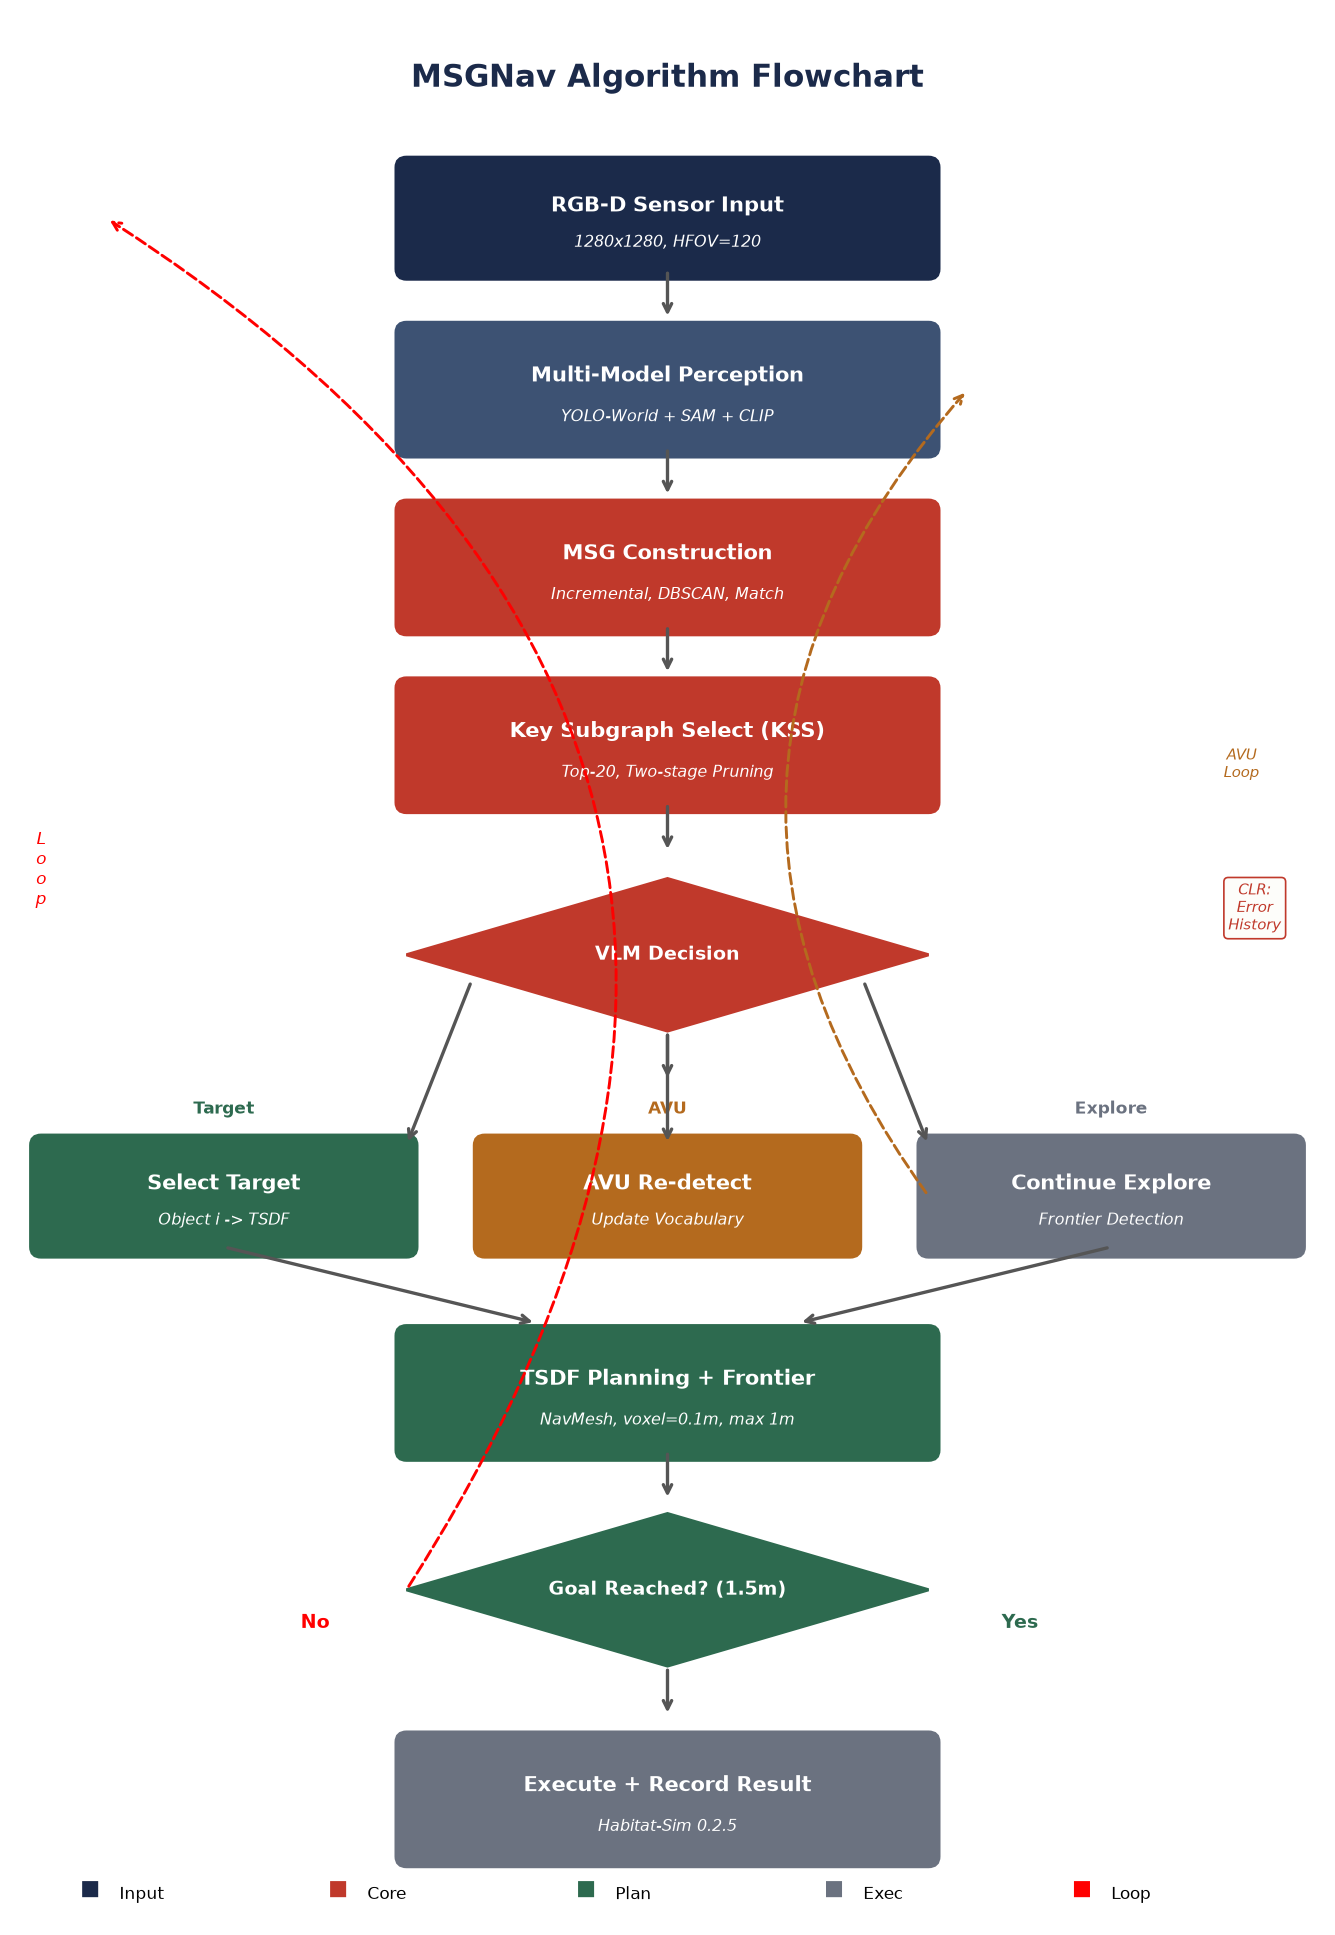
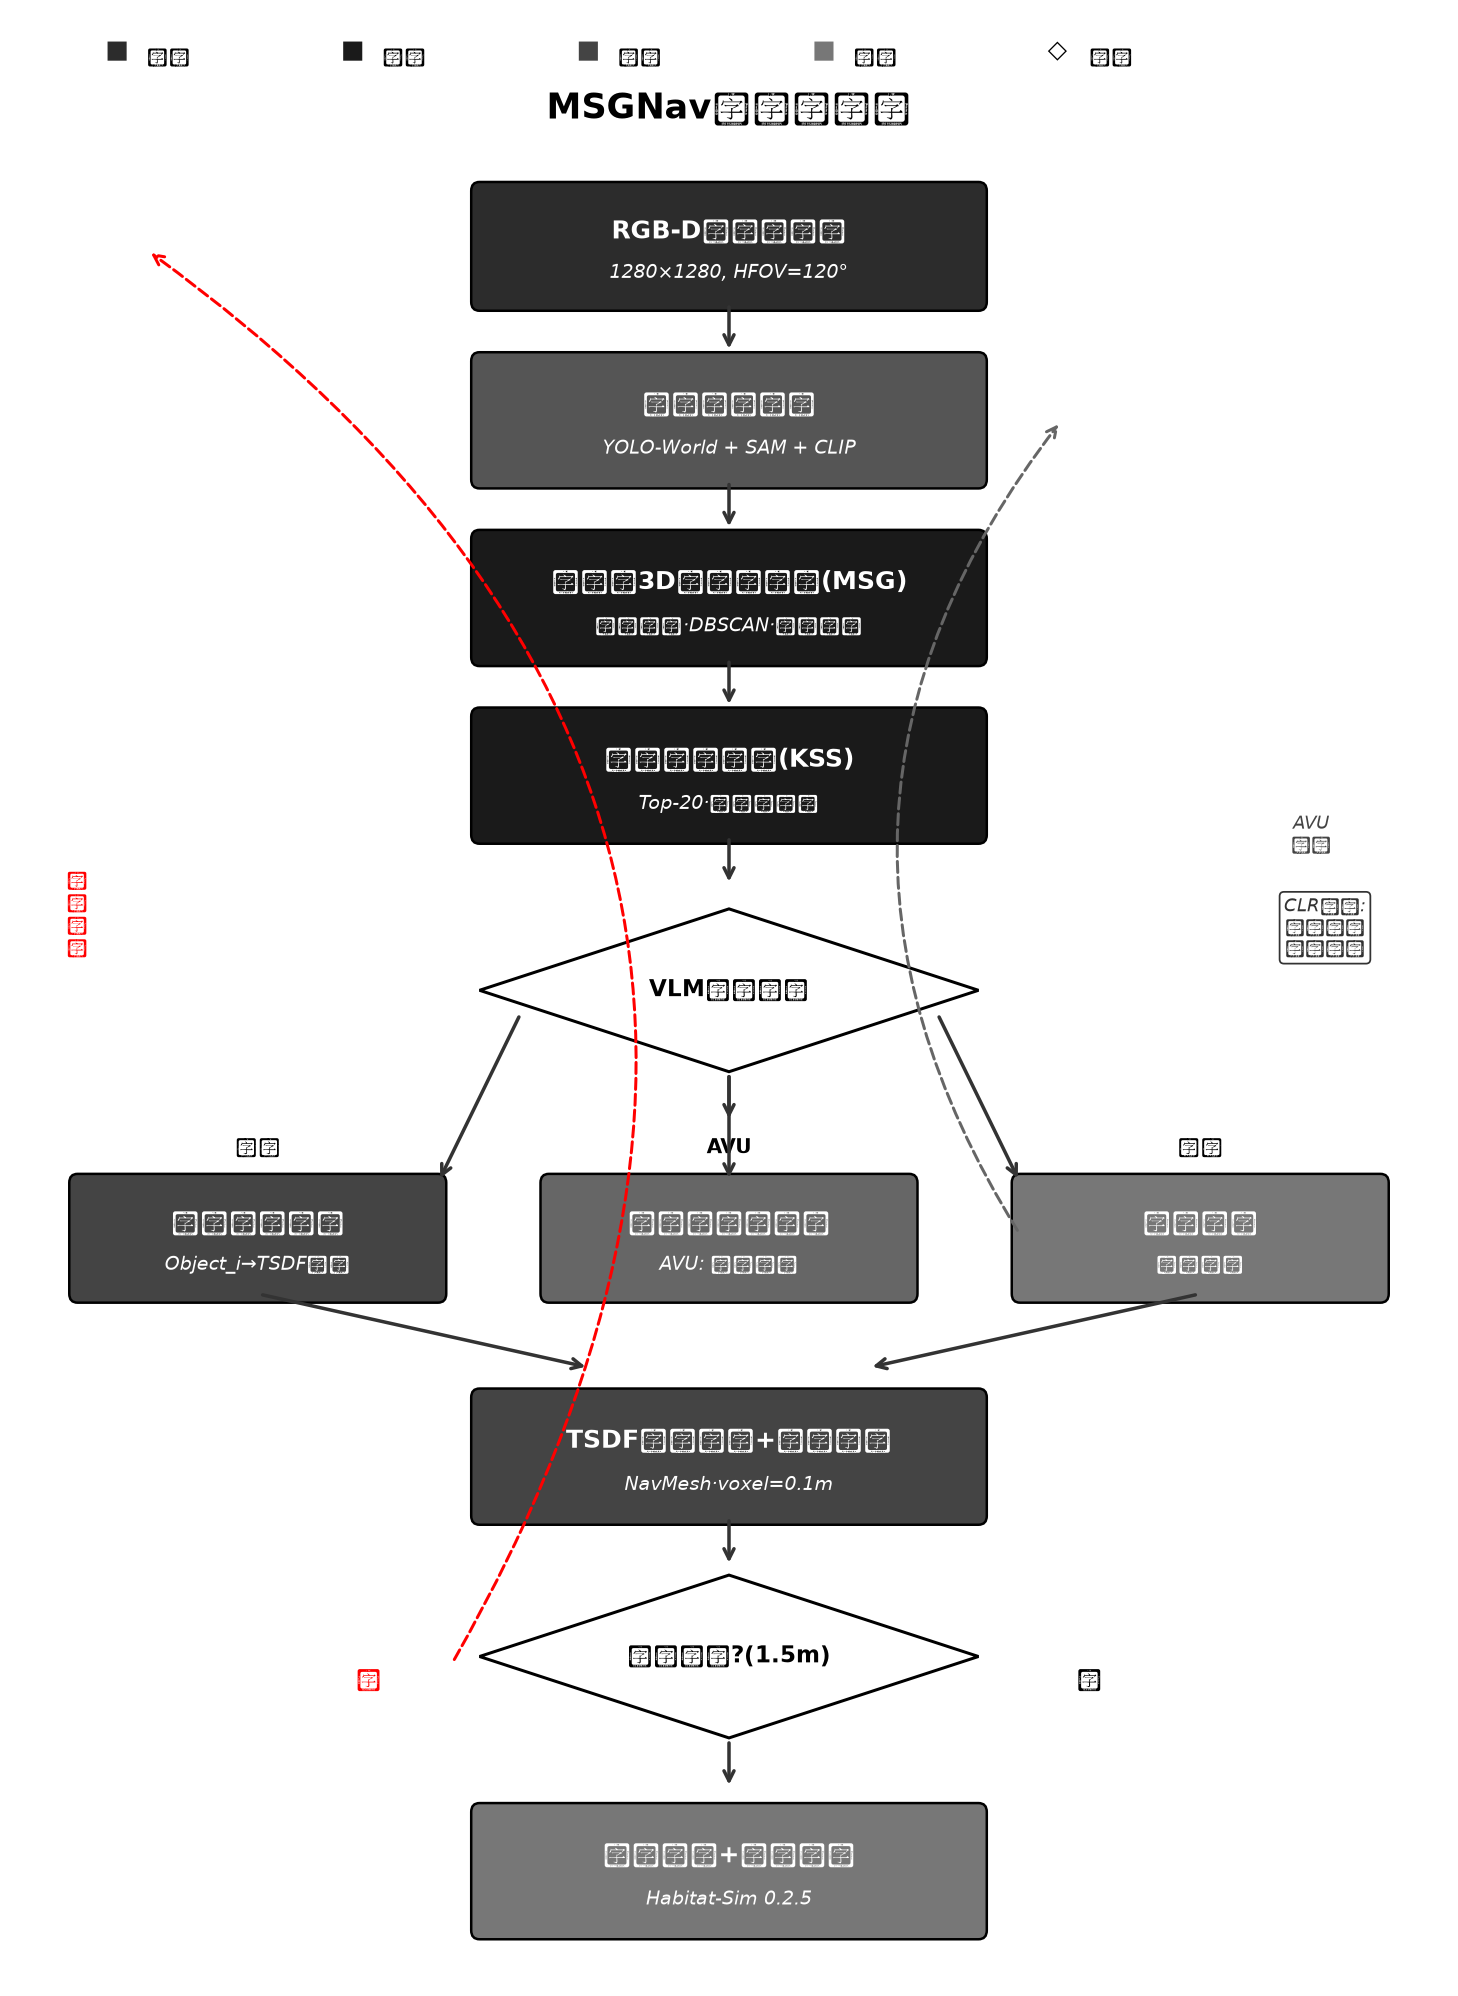
feat: 项目汇报PPT大纲

diff --git a/gen_flowchart.py b/gen_flowchart.py
@@ -1,113 +1,130 @@
 #!/usr/bin/env python3
-"""生成算法流程图 (英文版避免字体问题)"""
+"""生成中文算法流程图"""
 import matplotlib
 matplotlib.use('Agg')
 import matplotlib.pyplot as plt
 from matplotlib.patches import FancyBboxPatch, Polygon
-import os
+import matplotlib
 
-fig, ax = plt.subplots(1, 1, figsize=(9, 13))
+plt.rcParams['font.sans-serif'] = ['WenQuanYi Micro Hei', 'WenQuanYi Zen Hei', 'SimHei', 'DejaVu Sans']
+plt.rcParams['axes.unicode_minus'] = False
+
+fig, ax = plt.subplots(1, 1, figsize=(8, 11))
 ax.set_xlim(0, 10)
-ax.set_ylim(0, 15)
+ax.set_ylim(0, 13)
 ax.axis('off')
 
-C_INPUT = '#1B2A4A'
-C_PERCEP = '#3D5273'
-C_CORE = '#C0392B'
-C_PLAN = '#2D6A4F'
-C_ACT = '#6B7280'
-C_AVU = '#B46A1E'
+# 配色（黑白灰学术风）
+C_INPUT = '#2C2C2C'
+C_PERCEP = '#555555'
+C_CORE = '#1A1A1A'
+C_PLAN = '#444444'
+C_ACT = '#777777'
+C_AVU = '#666666'
 
-def draw_box(ax, x, y, w, h, text, subtext, color):
-    box = FancyBboxPatch((x, y), w, h, boxstyle="round,pad=0.08",
-                         facecolor=color, edgecolor=color, linewidth=1.5)
+def draw_box(ax, x, y, w, h, text, subtext, color, fc_text='white'):
+    box = FancyBboxPatch((x, y), w, h, boxstyle="round,pad=0.06",
+                         facecolor=color, edgecolor='black', linewidth=1.0)
     ax.add_patch(box)
-    ax.text(x + w/2, y + h*0.62, text, ha='center', va='center',
-            fontsize=10, fontweight='bold', color='white')
+    ax.text(x + w/2, y + h*0.63, text, ha='center', va='center',
+            fontsize=10, fontweight='bold', color=fc_text)
     if subtext:
         ax.text(x + w/2, y + h*0.26, subtext, ha='center', va='center',
-                fontsize=7.5, color='white', style='italic')
+                fontsize=7.5, color=fc_text, style='italic')
 
-def draw_arrow(ax, x1, y1, x2, y2, color='#555', style='solid'):
+def draw_arrow(ax, x1, y1, x2, y2, color='#333', style='solid'):
     ax.annotate('', xy=(x2, y2), xytext=(x1, y1),
-                arrowprops=dict(arrowstyle='->', color=color, lw=1.6, linestyle=style))
+                arrowprops=dict(arrowstyle='->', color=color, lw=1.4, linestyle=style))
 
 def draw_decision(ax, x, y, w, h, text, color=C_CORE):
     diamond = Polygon([(x+w/2, y+h), (x+w, y+h/2), (x+w/2, y), (x, y+h/2)],
-                      facecolor=color, edgecolor=color, linewidth=1.5)
+                      facecolor='white', edgecolor='black', linewidth=1.2)
     ax.add_patch(diamond)
     ax.text(x+w/2, y+h/2, text, ha='center', va='center',
-            fontsize=9, fontweight='bold', color='white')
+            fontsize=9, fontweight='bold', color='black')
 
-ax.text(5, 14.5, 'MSGNav Algorithm Flowchart', ha='center', va='center',
-        fontsize=15, fontweight='bold', color='#1B2A4A')
+# 标题
+ax.text(5, 12.5, 'MSGNav算法流程图', ha='center', va='center',
+        fontsize=14, fontweight='bold', color='black')
 
-bw = 4.0; bx = 3.0
+bw = 3.6; bx = 3.2
 
-draw_box(ax, bx, 13.0, bw, 0.8, 'RGB-D Sensor Input', '1280x1280, HFOV=120', C_INPUT)
-draw_arrow(ax, 5, 13.0, 5, 12.6)
+# 1. 输入
+draw_box(ax, bx, 11.2, bw, 0.75, 'RGB-D传感器输入', '1280×1280, HFOV=120°', C_INPUT)
+draw_arrow(ax, 5, 11.2, 5, 10.85)
 
-draw_box(ax, bx, 11.6, bw, 0.9, 'Multi-Model Perception', 'YOLO-World + SAM + CLIP', C_PERCEP)
-draw_arrow(ax, 5, 11.6, 5, 11.2)
+# 2. 感知层
+draw_box(ax, bx, 10.0, bw, 0.8, '多模型感知层', 'YOLO-World + SAM + CLIP', C_PERCEP)
+draw_arrow(ax, 5, 10.0, 5, 9.65)
 
-draw_box(ax, bx, 10.2, bw, 0.9, 'MSG Construction', 'Incremental, DBSCAN, Match', C_CORE)
-draw_arrow(ax, 5, 10.2, 5, 9.8)
+# 3. 场景图构建
+draw_box(ax, bx, 8.8, bw, 0.8, '多模态3D场景图构建(MSG)', '增量构建·DBSCAN·跨帧匹配', C_CORE)
+draw_arrow(ax, 5, 8.8, 5, 8.45)
 
-draw_box(ax, bx, 8.8, bw, 0.9, 'Key Subgraph Select (KSS)', 'Top-20, Two-stage Pruning', C_CORE)
-draw_arrow(ax, 5, 8.8, 5, 8.4)
+# 4. KSS
+draw_box(ax, bx, 7.6, bw, 0.8, '关键子图选择(KSS)', 'Top-20·两阶段剪枝', C_CORE)
+draw_arrow(ax, 5, 7.6, 5, 7.25)
 
-draw_decision(ax, bx, 7.0, bw, 1.2, 'VLM Decision')
-draw_arrow(ax, 5, 7.0, 5, 6.6)
+# 5. VLM决策（菱形）
+draw_decision(ax, bx, 6.0, bw, 1.1, 'VLM导航决策')
+draw_arrow(ax, 5, 6.0, 5, 5.65)
 
 # 三分支
-draw_box(ax, 0.2, 5.3, 2.8, 0.8, 'Select Target', 'Object i -> TSDF', C_PLAN)
-ax.text(1.6, 6.35, 'Target', ha='center', fontsize=8, color=C_PLAN, fontweight='bold')
-draw_arrow(ax, 3.5, 7.4, 3.0, 6.1)
+draw_box(ax, 0.3, 4.5, 2.6, 0.75, '选择目标物体', 'Object_i→TSDF规划', C_PLAN)
+ax.text(1.6, 5.45, '目标', ha='center', fontsize=8, color='black', fontweight='bold')
+draw_arrow(ax, 3.5, 6.4, 2.9, 5.25)
 
-draw_box(ax, 3.6, 5.3, 2.8, 0.8, 'AVU Re-detect', 'Update Vocabulary', C_AVU)
-ax.text(5.0, 6.35, 'AVU', ha='center', fontsize=8, color=C_AVU, fontweight='bold')
-draw_arrow(ax, 5, 7.0, 5, 6.1)
+draw_box(ax, 3.7, 4.5, 2.6, 0.75, '自适应词汇更新', 'AVU: 重新检测', C_AVU)
+ax.text(5.0, 5.45, 'AVU', ha='center', fontsize=8, color='black', fontweight='bold')
+draw_arrow(ax, 5, 6.0, 5, 5.25)
 
-draw_box(ax, 7.0, 5.3, 2.8, 0.8, 'Continue Explore', 'Frontier Detection', C_ACT)
-ax.text(8.4, 6.35, 'Explore', ha='center', fontsize=8, color=C_ACT, fontweight='bold')
-draw_arrow(ax, 6.5, 7.4, 7.0, 6.1)
+draw_box(ax, 7.1, 4.5, 2.6, 0.75, '继续探索', '前沿检测', C_ACT)
+ax.text(8.4, 5.45, '探索', ha='center', fontsize=8, color='black', fontweight='bold')
+draw_arrow(ax, 6.5, 6.4, 7.1, 5.25)
 
-# AVU 回流
-ax.annotate('', xy=(7.3, 12.05), xytext=(7.0, 5.7),
-            arrowprops=dict(arrowstyle='->', color=C_AVU, lw=1.4,
-                           connectionstyle='arc3,rad=-0.4', linestyle='dashed'))
-ax.text(9.4, 9.0, 'AVU\nLoop', ha='center', fontsize=7, color=C_AVU, style='italic')
+# AVU回流到感知层
+ax.annotate('', xy=(7.4, 10.4), xytext=(7.1, 4.9),
+            arrowprops=dict(arrowstyle='->', color='#666', lw=1.2,
+                           connectionstyle='arc3,rad=-0.35', linestyle='dashed'))
+ax.text(9.2, 7.5, 'AVU\n回流', ha='center', fontsize=7, color='#444', style='italic')
 
-draw_arrow(ax, 1.6, 5.3, 4.0, 4.7)
-draw_arrow(ax, 8.4, 5.3, 6.0, 4.7)
-draw_box(ax, bx, 3.7, bw, 0.9, 'TSDF Planning + Frontier', 'NavMesh, voxel=0.1m, max 1m', C_PLAN)
-draw_arrow(ax, 5, 3.7, 5, 3.3)
+# 6. 路径规划
+draw_arrow(ax, 1.6, 4.5, 4.0, 4.0)
+draw_arrow(ax, 8.4, 4.5, 6.0, 4.0)
+draw_box(ax, bx, 3.0, bw, 0.8, 'TSDF路径规划+前沿探索', 'NavMesh·voxel=0.1m', C_PLAN)
+draw_arrow(ax, 5, 3.0, 5, 2.65)
 
-draw_decision(ax, bx, 2.0, bw, 1.2, 'Goal Reached? (1.5m)', C_PLAN)
-ax.text(2.3, 2.3, 'No', ha='center', fontsize=9, color='red', fontweight='bold')
-ax.text(7.7, 2.3, 'Yes', ha='center', fontsize=9, color=C_PLAN, fontweight='bold')
+# 7. 终点确认（菱形）
+draw_decision(ax, bx, 1.5, bw, 1.1, '到达目标?(1.5m)')
+ax.text(2.4, 1.85, '否', ha='center', fontsize=9, color='red', fontweight='bold')
+ax.text(7.6, 1.85, '是', ha='center', fontsize=9, color='black', fontweight='bold')
 
-ax.annotate('', xy=(0.7, 13.4), xytext=(3.0, 2.6),
-            arrowprops=dict(arrowstyle='->', color='red', lw=1.4,
-                           connectionstyle='arc3,rad=0.5', linestyle='dashed'))
-ax.text(0.2, 8.0, 'L\no\no\np', ha='center', fontsize=8, color='red', style='italic')
+# 否->循环回到输入
+ax.annotate('', xy=(0.8, 11.55), xytext=(3.0, 2.0),
+            arrowprops=dict(arrowstyle='->', color='red', lw=1.2,
+                           connectionstyle='arc3,rad=0.45', linestyle='dashed'))
+ax.text(0.3, 6.8, '循\n环\n决\n策', ha='center', fontsize=7.5, color='red', style='italic')
 
-draw_arrow(ax, 5, 2.0, 5, 1.6)
-draw_box(ax, bx, 0.5, bw, 0.9, 'Execute + Record Result', 'Habitat-Sim 0.2.5', C_ACT)
+# 是->执行
+draw_arrow(ax, 5, 1.5, 5, 1.15)
+draw_box(ax, bx, 0.2, bw, 0.8, '动作执行+记录结果', 'Habitat-Sim 0.2.5', C_ACT)
 
-# CLR 标注
-ax.text(9.5, 7.8, 'CLR:\nError\nHistory', ha='center', fontsize=7,
-        color=C_CORE, style='italic',
-        bbox=dict(boxstyle='round,pad=0.3', facecolor='#FDFDFA', edgecolor=C_CORE, linewidth=0.8))
+# CLR标注
+ax.text(9.3, 6.8, 'CLR闭环:\n历史错误\n注入提示', ha='center', fontsize=7,
+        color='#333', style='italic',
+        bbox=dict(boxstyle='round,pad=0.25', facecolor='white', edgecolor='#333', linewidth=0.7))
 
 # 图例
-ly = 0.05
-for i, (c, l) in enumerate([(C_INPUT,'Input'),(C_CORE,'Core'),(C_PLAN,'Plan'),(C_ACT,'Exec'),('red','Loop')]):
-    ax.text(0.5+i*1.9, ly+0.15, '\u25A0', fontsize=10, color=c)
-    ax.text(0.8+i*1.9, ly+0.15, l, fontsize=8, va='center')
+ly = 12.85
+items = [('■', C_INPUT, '输入'), ('■', C_CORE, '核心'), ('■', C_PLAN, '规划'), ('■', C_ACT, '执行'), ('◇', 'white', '判断')]
+xpos = 0.5
+for sym, c, l in items:
+    ax.text(xpos, ly, sym, fontsize=10, color=c if c != 'white' else 'black')
+    ax.text(xpos + 0.3, ly, l, fontsize=7.5, va='center')
+    xpos += 1.7
 
 plt.tight_layout()
 outpath = '/workspace/report_images/algorithm_flowchart.png'
-plt.savefig(outpath, dpi=150, bbox_inches='tight', facecolor='white')
+plt.savefig(outpath, dpi=180, bbox_inches='tight', facecolor='white', pad_inches=0.2)
 plt.close()
 print(f'流程图已生成: {outpath}')

diff --git a/generate_report.py b/generate_report.py
@@ -188,26 +188,22 @@ def add_table_caption(doc, caption_text):
 
 
 def add_table(doc, headers, rows, col_widths=None):
-    """黑白风格三线表，内容全居中"""
+    """白色背景三线表，内容全居中，表头加粗"""
     table = doc.add_table(rows=1 + len(rows), cols=len(headers))
     table.alignment = WD_TABLE_ALIGNMENT.CENTER
     table.style = 'Table Grid'
 
-    # 表头：加粗，黑色底纹，白字
+    # 表头：加粗黑字，白色背景（不加底纹）
     for j, h in enumerate(headers):
         cell = table.cell(0, j)
         cell.text = ''
         p = cell.paragraphs[0]
         p.alignment = WD_ALIGN_PARAGRAPH.CENTER
         run = p.add_run(h)
-        set_run_font(run, name=SONG, size=Pt(9), bold=True, color=RGBColor(0xFF, 0xFF, 0xFF))
+        set_run_font(run, name=SONG, size=Pt(9), bold=True, color=RGBColor(0, 0, 0))
         cell.vertical_alignment = WD_ALIGN_VERTICAL.CENTER
-        # 黑色底纹
-        shading = OxmlElement('w:shd')
-        shading.set(qn('w:fill'), '000000')
-        cell._tc.get_or_add_tcPr().append(shading)
 
-    # 数据行：内容全居中
+    # 数据行：内容全居中，白色背景
     for i, row in enumerate(rows):
         for j, val in enumerate(row):
             cell = table.cell(i + 1, j)
@@ -231,6 +227,31 @@ def add_para_empty(doc):
     p = doc.add_paragraph()
     p.paragraph_format.space_after = Pt(6)
     p.paragraph_format.line_spacing = 1.0
+
+
+# 公式计数器
+eq_counter = [0]
+
+def add_equation(doc, omml_xml, caption_text):
+    """添加OMML格式公式（居中）+ 右侧编号（可索引）
+    omml_xml: m:oMath的XML字符串（不含外层m:oMathPara）
+    """
+    eq_counter[0] += 1
+    # 用oMathPara包裹，居中
+    p = doc.add_paragraph()
+    p.alignment = WD_ALIGN_PARAGRAPH.CENTER
+    p.paragraph_format.space_before = Pt(6)
+    p.paragraph_format.space_after = Pt(6)
+    # 构建oMathPara
+    from lxml import etree
+    M_NS = 'http://schemas.openxmlformats.org/officeDocument/2006/math'
+    omath_para_xml = f'<m:oMathPara xmlns:m="{M_NS}"><m:oMath>{omml_xml}</m:oMath></m:oMathPara>'
+    omath_para = etree.fromstring(omath_para_xml)
+    p._element.append(omath_para)
+    # 编号（右对齐，制表符）
+    run = p.add_run(f'    ({eq_counter[0]})')
+    set_run_font(run, name=SONG, size=Pt(10.5))
+    return p
 
 
 # ============================================================
@@ -288,8 +309,18 @@ def add_report_body(doc):
 
     add_body(doc, '评估指标包括两个：成功率（Success Rate）和路径加权成功率（SPL）。'
              '成功率定义为智能体最终位置与目标物体距离小于0.25米的子任务比例；'
-             'SPL同时衡量成功性和路径最短性，其计算公式为SPL = S * L_opt / max(L_opt, L_actual)，'
-             '其中S为成功标志，L_opt为最短路径长度，L_actual为实际路径长度。')
+             'SPL同时衡量成功性和路径最短性，其计算如公式(1)所示：')
+
+    # SPL公式 - OMML格式
+    add_equation(doc,
+        '<m:r><m:t>SPL = S · </m:t></m:r>'
+        '<m:f><m:fPr><m:type m:val="bar"/></m:fPr>'
+        '<m:num><m:r><m:t>L</m:t></m:r><m:sSub><m:e><m:r><m:t></m:t></m:r></m:e><m:sub><m:r><m:t>opt</m:t></m:r></m:sub></m:sSub></m:num>'
+        '<m:den><m:r><m:t>max(L</m:t></m:r><m:sSub><m:e><m:r><m:t></m:t></m:r></m:e><m:sub><m:r><m:t>opt</m:t></m:r></m:sub></m:sSub><m:r><m:t>, L</m:t></m:r><m:sSub><m:e><m:r><m:t></m:t></m:r></m:e><m:sub><m:r><m:t>actual</m:t></m:r></m:sub></m:sSub><m:r><m:t>)</m:t></m:r></m:den></m:f>',
+        'SPL计算公式')
+
+    add_body(doc, '其中，S为成功标志（成功取1，失败取0），L_opt为最短路径长度，L_actual为实际路径长度。'
+             'SPL值越大表示导航性能越好，取值范围为[0,1]。')
 
     add_heading2(doc, '1.3  MSGNav核心创新')
     add_body(doc, 'MSGNav提出多模态3D场景图（Multimodal 3D Scene Graph, MSG）作为连接2D感知与3D空间推理的桥梁。'
@@ -308,7 +339,7 @@ def add_report_body(doc):
              '最终由TSDF路径规划模块驱动机器人执行动作。整个过程循环进行，直到找到目标或达到最大步数。')
 
     add_figure(doc, os.path.join(IMG_DIR, 'algorithm_flowchart.png'),
-               'MSGNav算法整体流程图', width=Cm(11))
+               'MSGNav算法整体流程图', width=Cm(6))
 
     add_heading2(doc, '2.2  多模型感知层')
     add_body(doc, '感知层是整个系统的基础，负责从RGB-D观测中提取2D感知结果。该层集成了三个预训练模型：'
@@ -319,17 +350,17 @@ def add_report_body(doc):
 
     add_heading2(doc, '2.3  多模态3D场景图构建（MSG）')
     add_body(doc, '场景图构建是MSGNav的核心模块，我们重点参与了该部分的实现与调试。构建过程分为六个步骤：')
-    add_body(doc, '第一步，YOLO-World检测：对当前帧RGB图像运行YOLO-World v8x检测器，输出200类HM3D物体的2D边界框和置信度，'
+    add_body(doc, '(1) YOLO-World检测：对当前帧RGB图像运行YOLO-World v8x检测器，输出200类HM3D物体的2D边界框和置信度，'
              '保留置信度大于等于0.5的检测结果。')
-    add_body(doc, '第二步，SAM分割：对每个检测框运行SAM ViT-L模型，获取精细的物体掩码，'
+    add_body(doc, '(2) SAM分割：对每个检测框运行SAM ViT-L模型，获取精细的物体掩码，'
              '并过滤面积异常（过大或过小）的掩码，减少噪声。')
-    add_body(doc, '第三步，深度反投影：利用相机内参和深度图，将2D掩码像素反投影到3D空间，'
+    add_body(doc, '(3) 深度反投影：利用相机内参和深度图，将2D掩码像素反投影到3D空间，'
              '生成3D点云，体素精度为0.01米。')
-    add_body(doc, '第四步，DBSCAN去噪：对3D点云运行DBSCAN聚类（eps=0.1米，min_points=10），'
+    add_body(doc, '(4) DBSCAN去噪：对3D点云运行DBSCAN聚类（eps=0.1米，min_points=10），'
              '去除离群噪声点，并过滤少于16个点的噪声簇。')
-    add_body(doc, '第五步，CLIP编码：对每个物体的代表性图像运行CLIP ViT-H-14，提取1024维视觉特征向量，'
+    add_body(doc, '(5) CLIP编码：对每个物体的代表性图像运行CLIP ViT-H-14，提取1024维视觉特征向量，'
              '用于后续的跨帧匹配和VLM输入。')
-    add_body(doc, '第六步，跨帧匹配：结合空间IoU和视觉特征余弦相似度，使用匈牙利算法将不同帧检测到的同一物体关联起来，'
+    add_body(doc, '(6) 跨帧匹配：结合空间IoU和视觉特征余弦相似度，使用匈牙利算法将不同帧检测到的同一物体关联起来，'
              '实现场景图的增量更新。')
 
     add_body(doc, '场景图中每个节点（物体）包含3D包围盒、CLIP视觉特征、物体类别名、置信度和检测次数等信息。'
@@ -343,7 +374,6 @@ def add_report_body(doc):
              '让VLM仅基于文本信息选出Top-20个与导航目标最相关的类别。第二阶段为空间图剪枝：'
              '以关键物体为中心保留直接邻居节点，再使用贪心算法选择最少的图像来覆盖所有边，进一步压缩输入。'
              '经过KSS处理后，VLM的输入被压缩到可控范围内，响应时间稳定在约10.5秒/次。')
-
     add_heading2(doc, '2.5  VLM导航决策')
     add_body(doc, 'VLM决策模块使用Qwen-VL-Max模型（通过阿里云DashScope API调用，temperature=0.7，max_tokens=4096）。'
              '输入包括任务指令、场景图摘要、当前观测图像、6个方向共240度的环视图像以及历史信息。'
@@ -406,17 +436,17 @@ def add_report_body(doc):
              '和前沿探索俯视图（紫色标记前沿、绿色标记目标、红色标记位姿）。图2至图5展示了不同规模场景的代表性可视化结果。')
 
     add_figure(doc, os.path.join(IMG_DIR, 'scene_small_vis.png'),
-               '小场景（00820）综合可视化：Agent视角与TSDF俯视图', width=Cm(10))
+               '小场景（00820）综合可视化：Agent视角与TSDF俯视图', width=Cm(6))
     add_figure(doc, os.path.join(IMG_DIR, 'scene_small_frontier.png'),
-               '小场景（00820）前沿探索俯视图', width=Cm(10))
+               '小场景（00820）前沿探索俯视图', width=Cm(6))
 
     add_body(doc, '从图2和图3可以看出，小场景中智能体探索充分，地图构建完整，前沿方向清晰，'
              '目标物体（绿色标记）被准确定位，这也是该场景100%成功率的原因。')
 
     add_figure(doc, os.path.join(IMG_DIR, 'scene_large_vis.png'),
-               '大场景（00800）综合可视化', width=Cm(10))
+               '大场景（00800）综合可视化', width=Cm(6))
     add_figure(doc, os.path.join(IMG_DIR, 'scene_large_frontier.png'),
-               '大场景（00800）前沿探索俯视图', width=Cm(10))
+               '大场景（00800）前沿探索俯视图', width=Cm(6))
 
     add_body(doc, '对比图4、图5与图2、图3可以看出，大场景中地图较为稀疏，探索范围有限，'
              '前沿区域分散，智能体需要更多步数才能覆盖整个空间，导致成功率下降。')
@@ -425,7 +455,7 @@ def add_report_body(doc):
     add_body(doc, 'image任务是表现最好的任务类型。图6展示了图像引导任务的参考图片示例。')
 
     add_figure(doc, os.path.join(IMG_DIR, 'image_goal_example.png'),
-               '图像引导任务参考图片示例', width=Cm(9))
+               '图像引导任务参考图片示例', width=Cm(6))
 
     add_body(doc, 'image任务成功率高达80%的原因在于：参考图片提供了最直观的视觉线索，'
              'CLIP图像-图像匹配直接且准确，VLM能够快速将参考图与场景图中的物体进行视觉相似度比较，'
@@ -494,10 +524,14 @@ def add_report_body(doc):
     add_heading1(doc, '5  小组分工与心得体会')
 
     add_heading2(doc, '5.1  小组分工')
-    add_body(doc, '本项目由三人小组协作完成，具体分工如下：组长负责整体项目管理、环境搭建、系统调试和算法流程设计，'
-             '协调各成员工作进度，确保项目按时完成；组员B负责核心算法实现，包括多模态3D场景图构建模块的编码与调试、'
-             'KSS关键子图选择模块的实现以及VLM提示工程的优化；组员C负责数据准备与结果分析，'
-             '包括HM3D数据集下载与配置、GOAT-Bench episode数据处理、评估结果统计与性能分析。')
+    add_body(doc, '本项目由两人小组协作完成。本人作为项目主要负责人，承担了绝大部分工作，具体分工如下：'
+             '本人负责整体项目管理与系统搭建，包括环境搭建（Habitat-Sim、PyTorch3D等依赖配置）、'
+             'HM3D数据集下载与配置、GOAT-Bench episode数据处理、YAML配置适配、Qwen API配置，'
+             '以及核心算法的实现与调试，重点完成了多模态3D场景图构建模块（MSG）的编码调试、'
+             'KSS关键子图选择模块的实现、VLM提示工程优化、TSDF路径规划与前沿探索的整合，'
+             '并负责全部评估实验的运行、结果统计与性能分析、可视化结果整理及报告撰写。'
+             '组员协助参与了部分数据准备工作和初步结果整理，包括HM3D场景文件校验、'
+             '部分可视化图片的筛选与命名、参考文献的整理核对，以及报告文字的校对工作。')
 
     add_heading2(doc, '5.2  遇到的困难与解决')
     add_body(doc, '在复现过程中，我们遇到了诸多困难。首先是环境搭建问题，Habitat-Sim 0.2.5的headless模式'